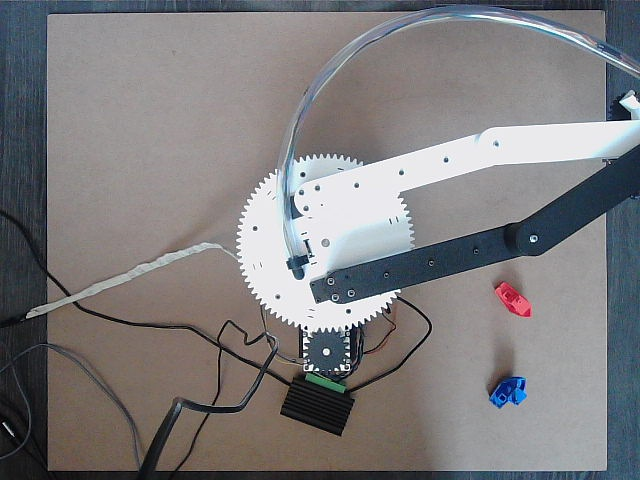
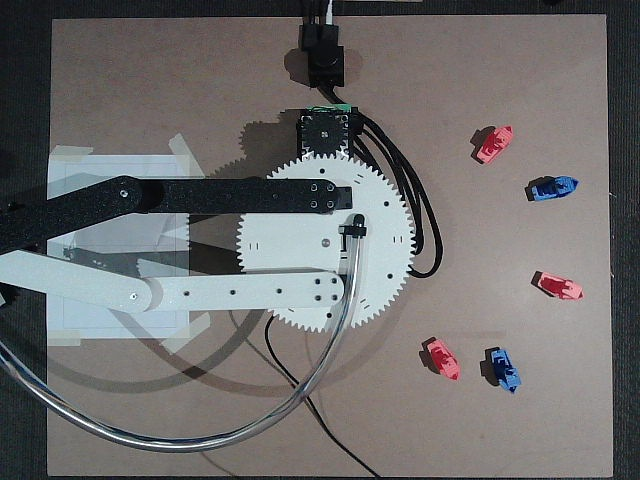
WORKING FULLY

diff --git a/scripts/pick.py b/scripts/pick.py
@@ -60,7 +60,7 @@ CONFIG = {
     "camera_index": 0,
 
     # ── Timing (seconds) ──────────────────────────────────────────────────────
-    "startup_delay":       3.0,  # wait at launch before doing anything
+    "startup_delay":       5.0,  # wait at launch before doing anything
     "move_drain_timeout":  15.0, # how long to wait for ESP32 DONE after each arm move
     "rotate_timeout":      30.0, # how long to wait for ESP32 DONE after ROTATE
     "rotate_settle":        3.0, # settle countdown after stepper reaches pick zone
@@ -81,10 +81,10 @@ CONFIG = {
     # ── Drop-off positions (by colour) ────────────────────────────────────────
     # Arm angles (degrees) at the drop zone for each detected colour.
     # Adjust until the end-effector is over the correct bin for each colour.
-    "drop_red_theta1_deg":  110.0,  # left arm angle when dropping a red object
-    "drop_red_theta2_deg":   70.0,  # right arm angle when dropping a red object
-    "drop_blue_theta1_deg": 95.0,  # left arm angle when dropping a blue object
-    "drop_blue_theta2_deg":  85.0,  # right arm angle when dropping a blue object
+    "drop_red_theta1_deg":  137.69,  # left arm angle when dropping a red object
+    "drop_red_theta2_deg":   78.77,  # right arm angle when dropping a red object
+    "drop_blue_theta1_deg": 101.23,  # left arm angle when dropping a blue object
+    "drop_blue_theta2_deg":  42.31,  # right arm angle when dropping a blue object
 
     # ── Pick ordering strategy ────────────────────────────────────────────────
     # "nearest"   — nearest to robot origin first (default from get_detections)

diff --git a/src/main.cpp b/src/main.cpp
@@ -67,13 +67,13 @@ void loop() {
     lastEncPrint = 0;   // force first periodic print immediately
   }
   else if (cmd.rotate) {
-    stepper.setDirection(false); //CW — to pick zone
-    stepper.moveAngleSinusoidal(45, SM_MIN_DELAY, SM_MAX_DELAY);
+    stepper.setDirection(true); //CCW — to pick zone
+    stepper.moveAngleSinusoidal(180, SM_MIN_DELAY, SM_MAX_DELAY);
     Serial.println("DONE");
   }
   else if (cmd.rotate_home) {
-    stepper.setDirection(true);  //CCW — back to drop zone
-    stepper.moveAngleSinusoidal(45, SM_MIN_DELAY, SM_MAX_DELAY);
+    stepper.setDirection(false);  //CW — back to drop zone
+    stepper.moveAngleSinusoidal(180, SM_MIN_DELAY, SM_MAX_DELAY);
     Serial.println("DONE");
   }
   else if (cmd.pick) {

diff --git a/include/config.h b/include/config.h
@@ -38,7 +38,7 @@
 #define LIFT_SERVO_CH     6
 
 // Gripper angles (degrees) — tune on hardware
-#define GRIP_OPEN_ANGLE   62
-#define GRIP_CLOSED_ANGLE 62
-#define LIFT_UP_ANGLE     40
-#define LIFT_DOWN_ANGLE   170
+#define GRIP_OPEN_ANGLE   5
+#define GRIP_CLOSED_ANGLE 65
+#define LIFT_UP_ANGLE     5
+#define LIFT_DOWN_ANGLE   105
